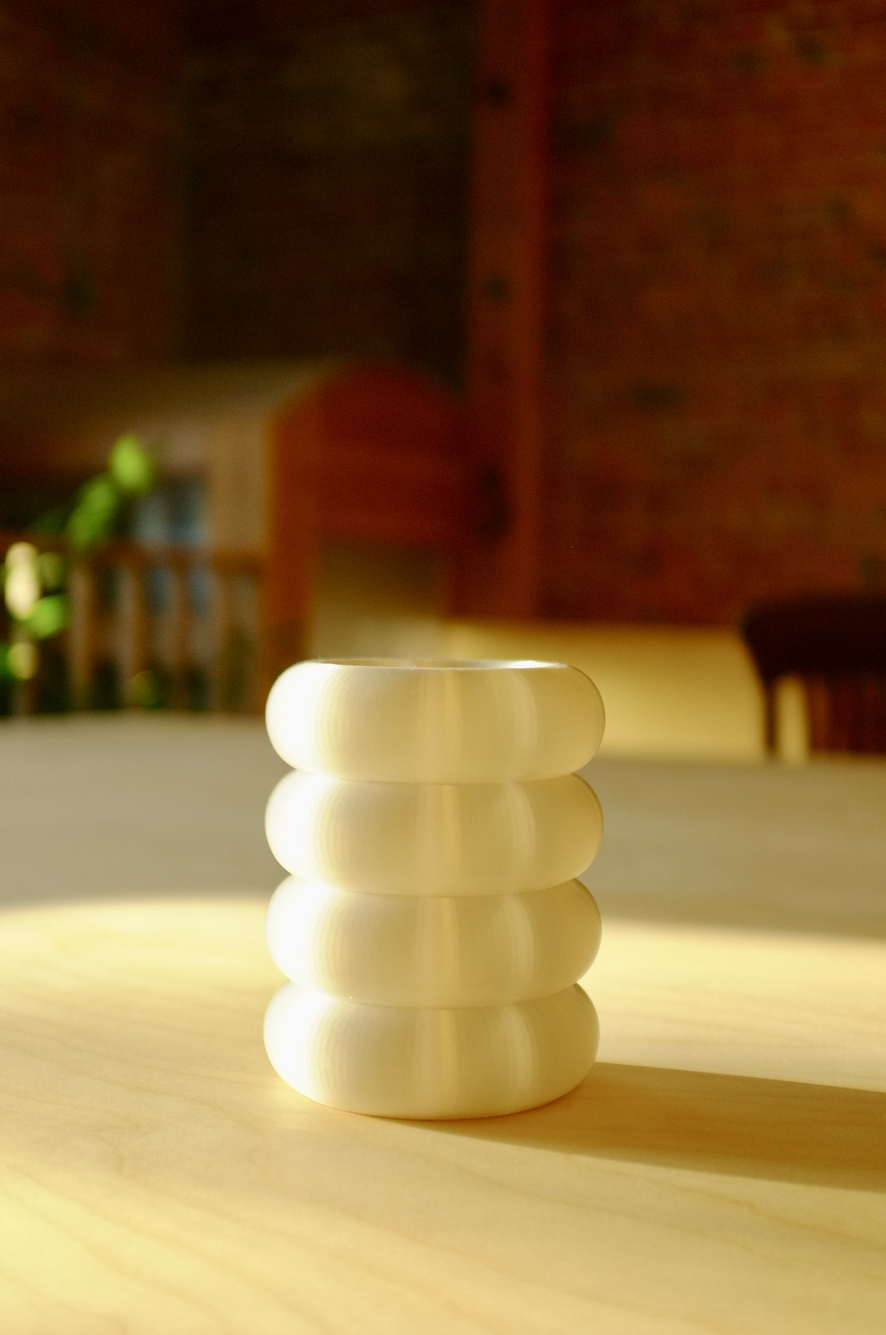
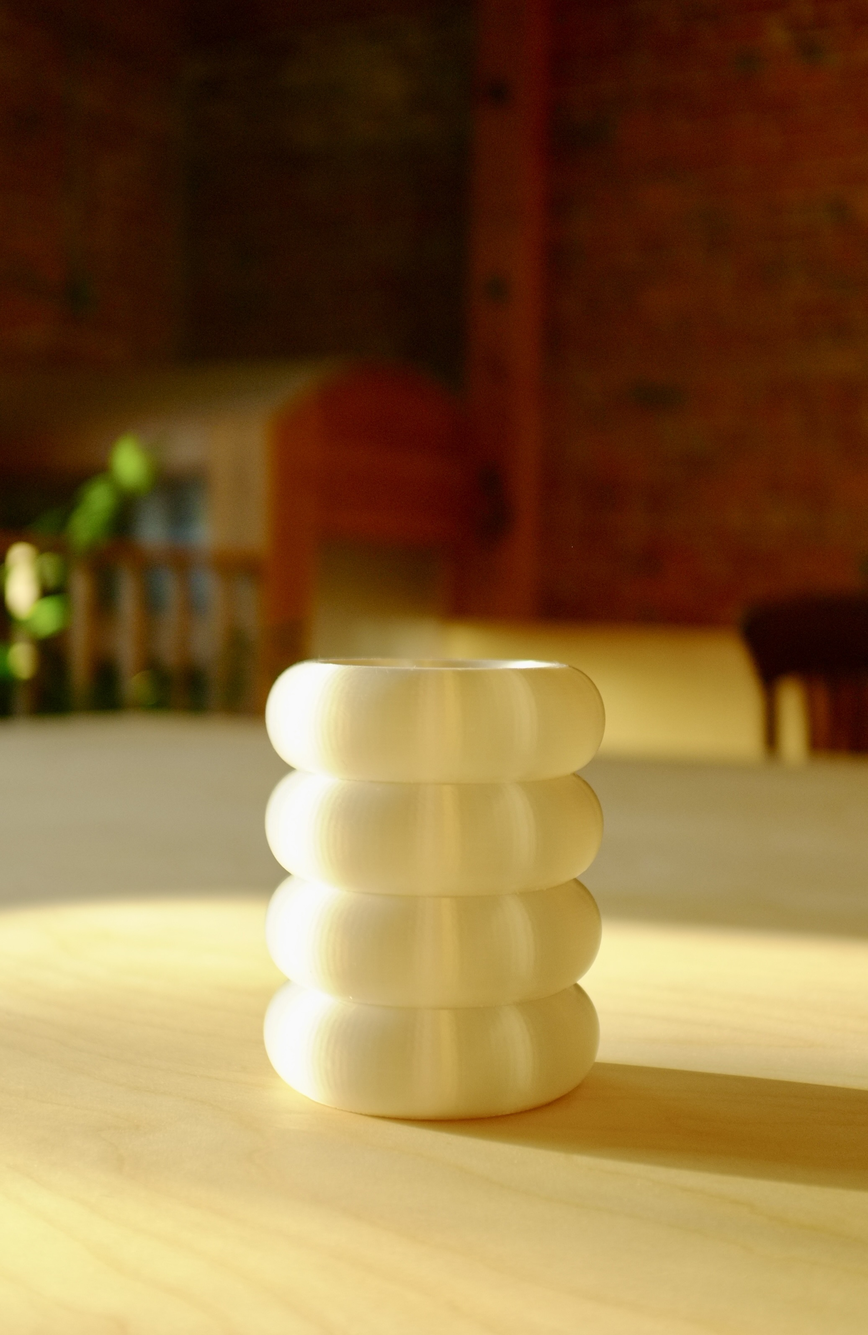
formatting

diff --git a/src/components/tinkio-projects/CloudVase.js b/src/components/tinkio-projects/CloudVase.js
@@ -1,6 +1,5 @@
 import React, { useState } from 'react'
 import Navbar from '../Navbar'
-import { useImageAspectOrientation } from '../../hooks/useImageAspectOrientation'
 import '../styles/Styles.css'
 import style from '../styles/cloud-vase.module.css'
 
@@ -15,7 +14,6 @@ const CloudVase = () => {
     const [selectedImage, setSelectedImage] = useState(0)
     const [hoveredImage, setHoveredImage] = useState(null)
     const displayedImage = selectedImage
-    const { isPortrait, onMainImageLoad } = useImageAspectOrientation(displayedImage)
 
     return (
         <section className={`ideas ${style.cloudVaseSection}`}>
@@ -43,16 +41,13 @@ const CloudVase = () => {
                                     </div>
                                 ))}
                             </div>
-                            <div
-                                className={`${style.mainImageWrapper} ${isPortrait ? style.mainImageWrapperPortrait : ''}`}
-                            >
+                            <div className={style.mainImageWrapper}>
                                 {displayedImage !== null ? (
                                     <img
                                         key={displayedImage}
                                         src={images[displayedImage]}
                                         alt="Cloud Vase"
                                         className={style.mainImage}
-                                        onLoad={onMainImageLoad}
                                     />
                                 ) : (
                                     <div className={style.mainImagePlaceholder} />

diff --git a/src/components/tinkio-projects/NoeLamp.js b/src/components/tinkio-projects/NoeLamp.js
@@ -1,6 +1,5 @@
 import React, { useState } from 'react'
 import Navbar from '../Navbar'
-import { useImageAspectOrientation } from '../../hooks/useImageAspectOrientation'
 import '../styles/Styles.css'
 import style from '../styles/noe-lamp.module.css'
 
@@ -14,7 +13,6 @@ const NoeLamp = () => {
     const [selectedImage, setSelectedImage] = useState(0)
     const [hoveredImage, setHoveredImage] = useState(null)
     const displayedImage = selectedImage
-    const { isPortrait, onMainImageLoad } = useImageAspectOrientation(displayedImage)
 
     return (
         <section className={`ideas ${style.noeLampSection}`}>
@@ -42,16 +40,13 @@ const NoeLamp = () => {
                                     </div>
                                 ))}
                             </div>
-                            <div
-                                className={`${style.mainImageWrapper} ${isPortrait ? style.mainImageWrapperPortrait : ''}`}
-                            >
+                            <div className={style.mainImageWrapper}>
                                 {displayedImage !== null ? (
                                     <img
                                         key={displayedImage}
                                         src={images[displayedImage]}
                                         alt="Noe Lamp"
                                         className={style.mainImage}
-                                        onLoad={onMainImageLoad}
                                     />
                                 ) : (
                                     <div className={style.mainImagePlaceholder} />

diff --git a/src/components/styles/vimputer.module.css b/src/components/styles/vimputer.module.css
@@ -105,43 +105,35 @@
   gap: 0.5rem;
 }
 
+/* Natural aspect ratio; wrapper hugs the image (no letterboxing or side gutters) */
 .mainImageWrapper {
   position: relative;
-  width: 100%;
-  aspect-ratio: 4 / 3;
-  max-height: min(680px, calc(100svh - 11rem));
-  overflow: hidden;
+  width: fit-content;
+  max-width: 100%;
+  justify-self: center;
+  display: flex;
+  justify-content: center;
+  align-items: flex-start;
   background: var(--vimputer-placeholder);
 }
 
-/* Height budget: navbar + top padding — keeps portrait shots on one screen */
-.mainImageWrapperPortrait {
-  aspect-ratio: 2 / 3;
-  max-height: calc(100svh - 10rem);
-  width: min(100%, calc((100svh - 10rem) * 2 / 3));
-  max-width: 100%;
-  justify-self: center;
-}
-
-.mainImageWrapperPortrait .mainImage {
-  object-fit: contain;
+.mainImageWrapper:has(.mainImagePlaceholder) {
+  width: 100%;
 }
 
 .mainImagePlaceholder {
   width: 100%;
   aspect-ratio: 4 / 3;
-  max-height: min(680px, calc(100svh - 11rem));
+  max-height: min(400px, calc(100svh - 11rem));
   background: var(--vimputer-placeholder);
 }
 
 .mainImage {
-  position: absolute;
-  inset: 0;
-  width: 100%;
-  height: 100%;
-  object-fit: cover;
-  object-position: center;
-  background: var(--vimputer-placeholder);
+  display: block;
+  max-width: 100%;
+  max-height: calc(100svh - 10rem);
+  width: auto;
+  height: auto;
   animation: fadeIn 0.35s ease forwards;
 }
 

diff --git a/src/components/tinkio-projects/Vimputer.js b/src/components/tinkio-projects/Vimputer.js
@@ -1,6 +1,5 @@
 import React, { useState } from 'react'
 import Navbar from '../Navbar'
-import { useImageAspectOrientation } from '../../hooks/useImageAspectOrientation'
 import '../styles/Styles.css'
 import style from '../styles/vimputer.module.css'
 
@@ -15,7 +14,6 @@ const Vimputer = () => {
   const [selectedImage, setSelectedImage] = useState(0)
   const [hoveredImage, setHoveredImage] = useState(null)
   const displayedImage = selectedImage
-  const { isPortrait, onMainImageLoad } = useImageAspectOrientation(displayedImage)
 
   return (
     <section className={`ideas ${style.vimputerSection}`}>
@@ -42,16 +40,13 @@ const Vimputer = () => {
                   </div>
                 ))}
               </div>
-              <div
-                className={`${style.mainImageWrapper} ${isPortrait ? style.mainImageWrapperPortrait : ''}`}
-              >
+              <div className={style.mainImageWrapper}>
                 {displayedImage !== null ? (
                   <img
                     key={displayedImage}
                     src={images[displayedImage]}
                     alt="Vimputer"
                     className={style.mainImage}
-                    onLoad={onMainImageLoad}
                   />
                 ) : (
                   <div className={style.mainImagePlaceholder} />

diff --git a/src/components/styles/cloud-vase.module.css b/src/components/styles/cloud-vase.module.css
@@ -107,40 +107,32 @@
 
 .mainImageWrapper {
   position: relative;
-  width: 100%;
-  aspect-ratio: 4 / 3;
-  max-height: min(680px, calc(100svh - 11rem));
-  overflow: hidden;
+  width: fit-content;
+  max-width: 100%;
+  justify-self: center;
+  display: flex;
+  justify-content: center;
+  align-items: flex-start;
   background: var(--cloud-vase-placeholder);
 }
 
-.mainImageWrapperPortrait {
-  aspect-ratio: 2 / 3;
-  max-height: calc(100svh - 10rem);
-  width: min(100%, calc((100svh - 10rem) * 2 / 3));
-  max-width: 100%;
-  justify-self: center;
-}
-
-.mainImageWrapperPortrait .mainImage {
-  object-fit: contain;
+.mainImageWrapper:has(.mainImagePlaceholder) {
+  width: 100%;
 }
 
 .mainImagePlaceholder {
   width: 100%;
   aspect-ratio: 4 / 3;
-  max-height: min(680px, calc(100svh - 11rem));
+  max-height: min(400px, calc(100svh - 11rem));
   background: var(--cloud-vase-placeholder);
 }
 
 .mainImage {
-  position: absolute;
-  inset: 0;
-  width: 100%;
-  height: 100%;
-  object-fit: cover;
-  object-position: center;
-  background: var(--cloud-vase-placeholder);
+  display: block;
+  max-width: 100%;
+  max-height: calc(100svh - 10rem);
+  width: auto;
+  height: auto;
   animation: fadeIn 0.35s ease forwards;
 }
 

diff --git a/src/components/styles/noe-lamp.module.css b/src/components/styles/noe-lamp.module.css
@@ -93,40 +93,32 @@
 
 .mainImageWrapper {
   position: relative;
-  width: 100%;
-  aspect-ratio: 4 / 3;
-  max-height: min(680px, calc(100svh - 11rem));
-  overflow: hidden;
+  width: fit-content;
+  max-width: 100%;
+  justify-self: center;
+  display: flex;
+  justify-content: center;
+  align-items: flex-start;
   background: #e8e6e1;
 }
 
-.mainImageWrapperPortrait {
-  aspect-ratio: 2 / 3;
-  max-height: calc(100svh - 10rem);
-  width: min(100%, calc((100svh - 10rem) * 2 / 3));
-  max-width: 100%;
-  justify-self: center;
-}
-
-.mainImageWrapperPortrait .mainImage {
-  object-fit: contain;
+.mainImageWrapper:has(.mainImagePlaceholder) {
+  width: 100%;
 }
 
 .mainImagePlaceholder {
   width: 100%;
   aspect-ratio: 4 / 3;
-  max-height: min(680px, calc(100svh - 11rem));
+  max-height: min(400px, calc(100svh - 11rem));
   background: #e8e6e1;
 }
 
 .mainImage {
-  position: absolute;
-  inset: 0;
-  width: 100%;
-  height: 100%;
-  object-fit: cover;
-  object-position: center;
-  background: #e8e6e1;
+  display: block;
+  max-width: 100%;
+  max-height: calc(100svh - 10rem);
+  width: auto;
+  height: auto;
   animation: fadeIn 0.35s ease forwards;
 }
 
